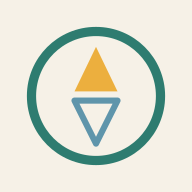
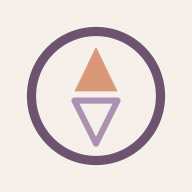
style: recolor Norte compass in plum, lavender and peach
Update the native compass, brand accent and opaque iPhone/PWA icons with a neutral warm palette. Version icon URLs and shell cache to refresh branding. Preserve calculation logic and financial data; all 45 tests and production build pass.

Changed region(s): [[0.125, 0.125, 0.875, 0.875], [0.375, 0.25, 0.625, 0.7812]]

diff --git a/index.html b/index.html
@@ -10,9 +10,9 @@
     <meta name="apple-mobile-web-app-capable" content="yes" />
     <meta name="apple-mobile-web-app-status-bar-style" content="default" />
     <meta name="description" content="Norte. Um gasto de cada vez." />
-    <link rel="icon" href="/norte-compass-color.svg" type="image/svg+xml" />
-    <link rel="apple-touch-icon" sizes="180x180" href="/norte-apple-touch-v2.png" />
-    <link rel="manifest" href="/manifest.webmanifest?v=2" />
+    <link rel="icon" href="/norte-compass-v3.svg" type="image/svg+xml" />
+    <link rel="apple-touch-icon" sizes="180x180" href="/norte-apple-touch-v3.png" />
+    <link rel="manifest" href="/manifest.webmanifest?v=3" />
     <title>Norte</title>
     <link rel="preconnect" href="https://fonts.googleapis.com" />
     <link rel="preconnect" href="https://fonts.gstatic.com" crossorigin />

diff --git a/public/sw.js b/public/sw.js
@@ -1,11 +1,11 @@
 // Cache only the public shell. Financial data, auth and API requests never enter Cache Storage.
-const CACHE = "norte-shell-v2";
+const CACHE = "norte-shell-v3";
 const SHELL = [
   "/",
-  "/norte-compass-color.svg",
-  "/norte-apple-touch-v2.png",
-  "/norte-icon-192-v2.png",
-  "/norte-icon-512-v2.png",
+  "/norte-compass-v3.svg",
+  "/norte-apple-touch-v3.png",
+  "/norte-icon-192-v3.png",
+  "/norte-icon-512-v3.png",
   "/manifest.webmanifest",
 ];
 self.addEventListener("install", (event) => {

diff --git a/norte-src/App.tsx b/norte-src/App.tsx
@@ -66,7 +66,7 @@ async function askAI(body: Record<string, unknown>) {
 function Logo() {
   return (
     <span className="brand">
-      <img src="/norte-compass-color.svg" alt="" />
+      <img src="/norte-compass-v3.svg" alt="" />
       norte<span className="brand-dot">.</span>
     </span>
   );

diff --git a/norte-src/style.css b/norte-src/style.css
@@ -1057,3 +1057,15 @@ progress.care-progress::-moz-progress-bar {
     font-size: 11px;
   }
 }
+
+.brand-dot {
+  color: #6d536f;
+}
+@media (prefers-color-scheme: dark) {
+  .brand-dot {
+    color: #b9a2c1;
+  }
+  .brand img {
+    background: transparent;
+  }
+}
